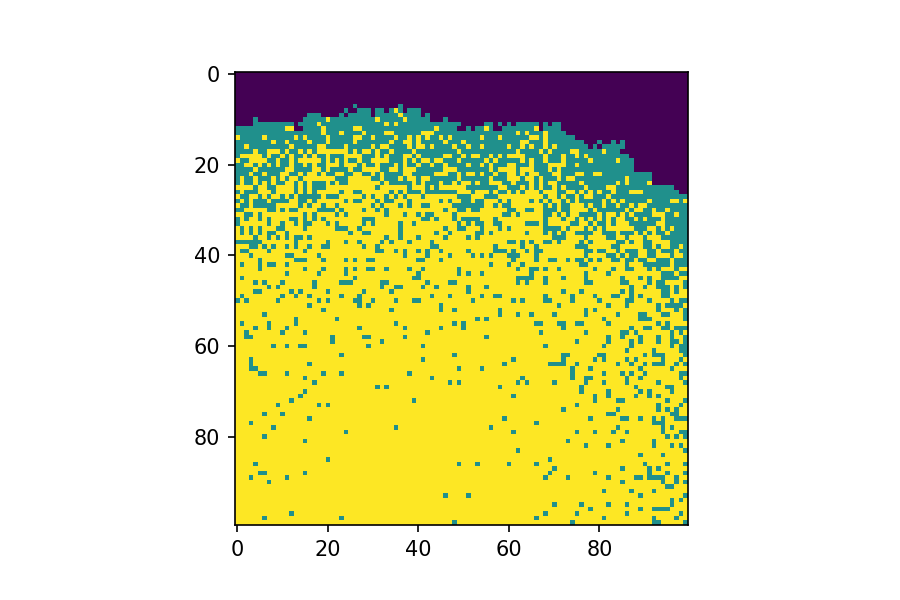
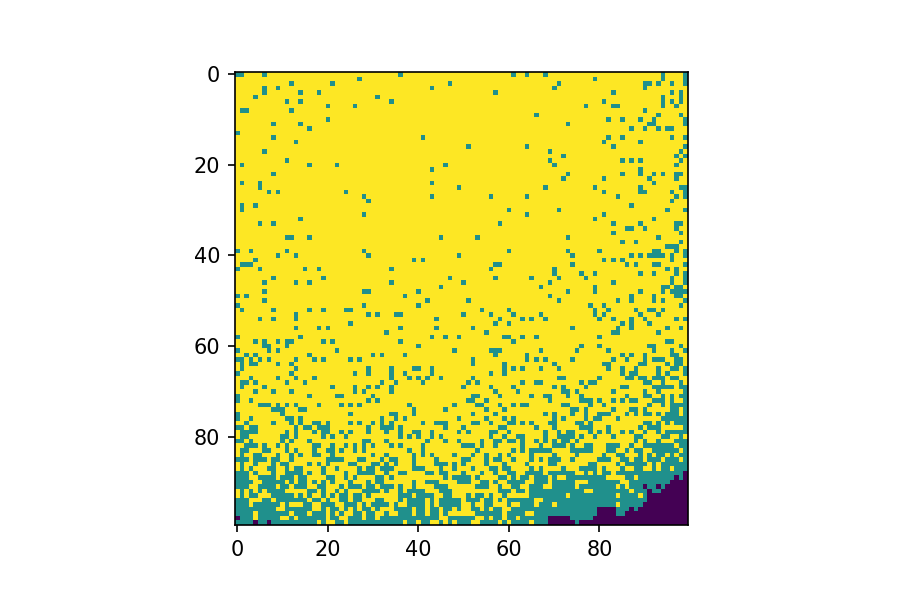
Submit Pr12

Changed region(s): [[0.2489, 0.12, 0.7778, 0.9]]

diff --git a/Practical12/Spatial_SIR.py b/Practical12/Spatial_SIR.py
@@ -1,0 +1,31 @@
+# -*- coding: utf-8 -*-
+"""
+Created on Wed May  8 15:50:58 2019
+
+@author: Valerya
+"""
+
+import numpy as np
+import matplotlib.pyplot as plt
+population = np.zeros((100,100)) #100x100 suscepticle population
+b = 0.3; g = 0.05; T = 100 
+outbreak = np.random.choice(range(100),2) #select random person
+population[outbreak[0],outbreak[1]] = 1 #random person infected (=1)
+for t in range(T+1): #for T days (T+1th loop for plotting the Tth heat map)
+    infectedIndex = np.where(population==1) #locate the infected
+    if t in [0,10,50,100]: #plot heat map after 0,10,50,100 recursions
+        plt.figure(figsize =(6 ,4) , dpi=150) 
+        plt.imshow(population, cmap='viridis', interpolation='nearest')
+        #plt.savefig ('Spatial_SIR%d'%t,type='png')
+    for i in range(len(infectedIndex[0])): #for all infectd points
+        x = infectedIndex[0][i]
+        y = infectedIndex[1][i] #obtain x,y coordinates
+        for xNeighbour in range(x-1,x+2):
+            for yNeighbour in range(y-1,y+2):
+                if (xNeighbour,yNeighbour) != (x,y): #for all 8 neighbours except himself
+                    if xNeighbour not in [-1,100] and yNeighbour not in [-1,100]: #not fall off an edge
+                        if population[xNeighbour,yNeighbour] == 0: # b probability the suscepticle infected (=1)
+                            population[xNeighbour,yNeighbour] = np.random.choice(range(2),1,p=[1-b,b])[0]
+                else: #for himself, g probability he recovered (=2)
+                    population[xNeighbour,yNeighbour] = np.random.choice(range(2),1,p=[1-g,g])[0] + 1
+
